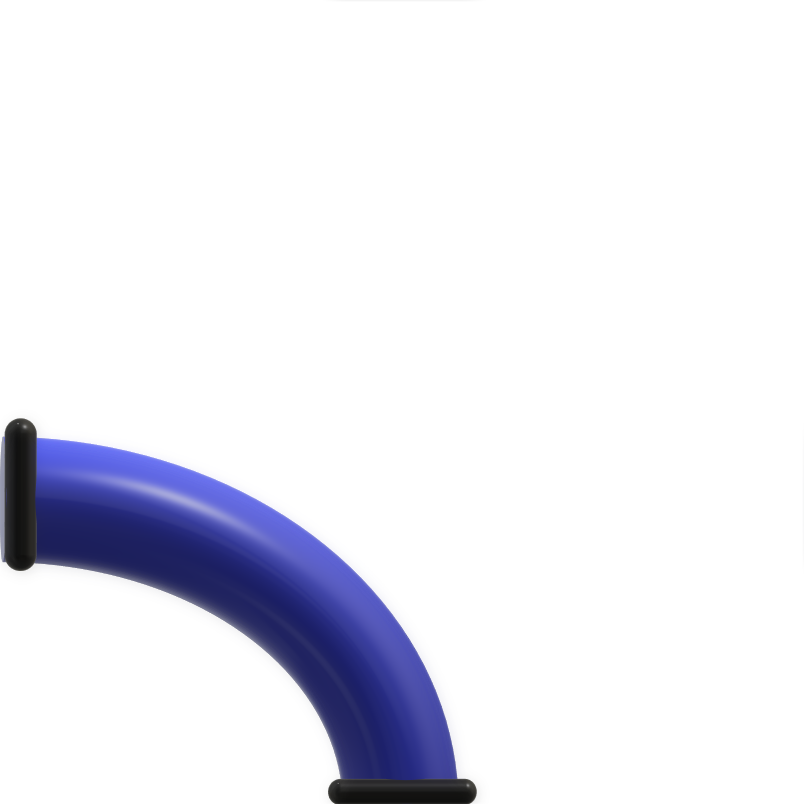
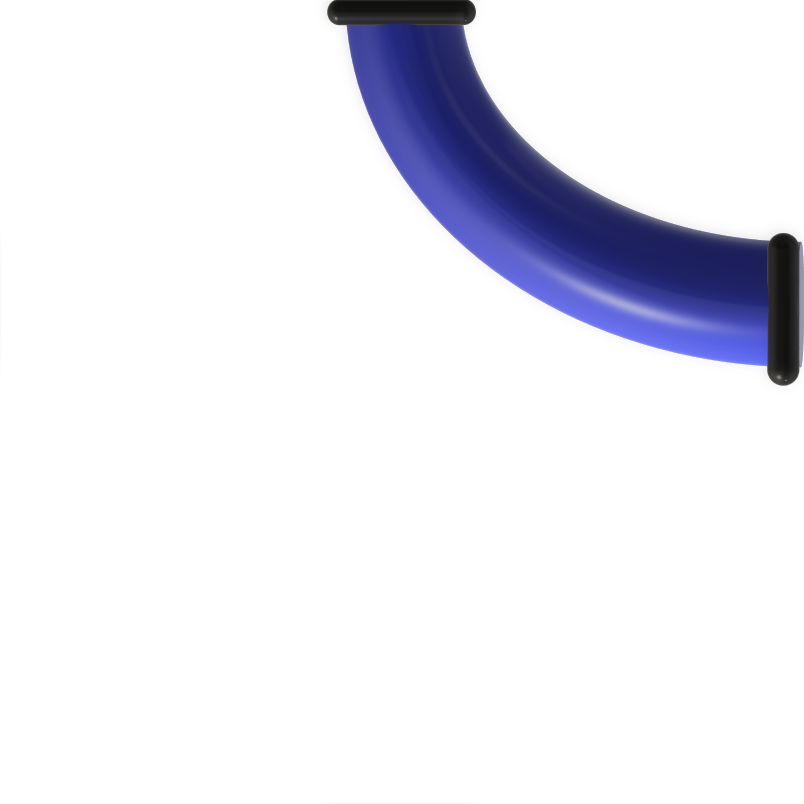
Get solution from server implementation + animations

Changed region(s): [[0.0, 0.4975, 0.5908, 1.0], [0.4042, 0.0, 1.0, 0.4975]]

diff --git a/src/client_desktop/model/PipeGameModel.java b/src/client_desktop/model/PipeGameModel.java
@@ -1,5 +1,6 @@
 package client_desktop.model;
 
+import javafx.application.Platform;
 import javafx.beans.property.*;
 import javafx.collections.FXCollections;
 
@@ -12,6 +13,8 @@ import java.util.Timer;
 import java.util.TimerTask;
 
 public class PipeGameModel implements GameModel {
+
+    public enum availableMoves {down, left, right, start, up}
 
     public BooleanProperty isGoalState;
     public ListProperty<Point> passedPipes;
@@ -31,6 +34,13 @@ public class PipeGameModel implements GameModel {
             timePassed.set(timePassed.get() + 1);
         }
     };
+    public TimerTask getNewTimerTask() {
+        return new TimerTask() {
+            public void run(){
+                Platform.runLater(()-> timePassed.set(timePassed.get() + 1));
+            }
+        };
+    }
 
     public PipeGameModel() {
         this.pipeGameBoard = new SimpleListProperty<>(FXCollections.observableArrayList(new ArrayList<>()));
@@ -48,11 +58,22 @@ public class PipeGameModel implements GameModel {
             if (startPosition != null) {
                 isGoalState.set(false);
                 passedPipes.clear();
-                isGoalState.set(isGoalStateCheck(startPosition, goalPosition));
+                isGoalStatePossible(startPosition.x, startPosition.y, availableMoves.start);
             }
         });
 
         this.isGoalState = new SimpleBooleanProperty();
+        this.isGoalState.addListener((observableValue, s, t1) -> {
+            if (true == isGoalState.get()) {
+                this.timer.cancel();
+                this.timer = null;
+            } else {
+                if (null == this.timer) {
+                    this.timer = new Timer();
+                    this.timer.scheduleAtFixedRate(getNewTimerTask(), 1000, 1000);
+                }
+            }
+        });
         this.passedPipes = new SimpleListProperty<>(FXCollections.observableArrayList(new LinkedHashSet<Point>()));
         this.stepsNumber = new SimpleIntegerProperty(0);
         this.timePassed = new SimpleIntegerProperty(0);
@@ -80,6 +101,90 @@ public class PipeGameModel implements GameModel {
                 (getBottom(current) != cameFrom && isBottomPossible(current) && isGoalFound(getBottom(current), current, goal)) ||
                 (getRight(current) != cameFrom && isRightPossible(current) && isGoalFound(getRight(current), current, goal))  ||
                 (getLeft(current) != cameFrom && isLeftPossible(current) && isGoalFound(getLeft(current), current, goal)));
+    }
+
+    private boolean isGoalStatePossible(int column, int row, availableMoves from) {
+        //check bounds
+        if (column < 0 || column >= pipeGameBoard.get(0).length)
+            return false;
+        if (row < 0 || row >= pipeGameBoard.size())
+            return false;
+        // start
+        if (from == availableMoves.start) {
+            return (isGoalStatePossible(column + 1, row, availableMoves.left) ||
+                    isGoalStatePossible(column - 1, row, availableMoves.right) ||
+                    isGoalStatePossible(column, row + 1, availableMoves.up) ||
+                    isGoalStatePossible(column, row - 1, availableMoves.down));
+        }
+
+        switch (pipeGameBoard.get(row)[column]) {
+            case '-':
+                if (from == availableMoves.left) {
+                    passedPipes.add(new Point(column, row));
+                    return isGoalStatePossible(column + 1, row, availableMoves.left);
+                } else if (from == availableMoves.right) {
+                    passedPipes.add(new Point(column, row));
+                    return isGoalStatePossible(column - 1, row, availableMoves.right);
+                } else {
+                    return false;
+                }
+            case 'g':
+                passedPipes.add(new Point(column, row));
+                isGoalState.set(true);
+                return true;
+            case 'F':
+                if (from == availableMoves.right) {
+                    passedPipes.add(new Point(column, row));
+                    return isGoalStatePossible(column, row + 1, availableMoves.up);
+                } else if (from == availableMoves.down) {
+                    passedPipes.add(new Point(column, row));
+                    return isGoalStatePossible(column + 1, row, availableMoves.left);
+                } else {
+                    return false;
+                }
+            case '|':
+                if (from == availableMoves.up) {
+                    passedPipes.add(new Point(column, row));
+                    return isGoalStatePossible(column, row + 1, availableMoves.up);
+                } else if (from == availableMoves.down) {
+                    passedPipes.add(new Point(column, row));
+                    return isGoalStatePossible(column, row - 1, availableMoves.down);
+                } else {
+                    return false;
+                }
+            case 'L':
+                if (from == availableMoves.up) {
+                    passedPipes.add(new Point(column, row));
+                    return isGoalStatePossible(column + 1, row, availableMoves.left);
+                } else if (from == availableMoves.right) {
+                    passedPipes.add(new Point(column, row));
+                    return isGoalStatePossible(column, row - 1, availableMoves.down);
+                } else {
+                    return false;
+                }
+
+            case 'J':
+                if (from == availableMoves.up) {
+                    passedPipes.add(new Point(column, row));
+                    return isGoalStatePossible(column - 1, row, availableMoves.right);
+                } else if (from == availableMoves.left) {
+                    passedPipes.add(new Point(column, row));
+                    return isGoalStatePossible(column, row - 1, availableMoves.down);
+                } else {
+                    return false;
+                }
+            case '7':
+                if (from == availableMoves.left) {
+                    passedPipes.add(new Point(column, row));
+                    return isGoalStatePossible(column, row + 1, availableMoves.up);
+                } else if (from == availableMoves.down) {
+                    passedPipes.add(new Point(column, row));
+                    return isGoalStatePossible(column - 1, row, availableMoves.right);
+                } else {
+                    return false;
+                }
+        }
+        return false;
     }
 
     public boolean isTopPossible(Point cell) {
@@ -303,10 +408,10 @@ public class PipeGameModel implements GameModel {
 
     public void initBoard() {
         char[][] level = {
-                {'s','F',' ','-','L'},
-                {' ','J','J','-','L'},
-                {' ','F','|','-','L'},
-                {' ','L','L','-','g'},
+                {'s','-','7','-','L'},
+                {'F','J','|','-','L'},
+                {'F','F','|','-','L'},
+                {'F','L','L','-','g'},
         };
 
         setCleanBoard(level);
@@ -362,11 +467,40 @@ public class PipeGameModel implements GameModel {
     public void saveGame(File fileName) {
     }
 
-    public void connectServer(String serverIP, String serverPort) {
-
+    public void connectServer(String serverIP, String serverPort) throws IOException {
+        this.serverSocket = new Socket(serverIP, Integer.parseInt(serverPort));
+        System.out.println("Connected to server");
     }
 
     public void solve() throws IOException, InterruptedException {
+        // verify the connection.
+        if (this.serverSocket != null) {
+            BufferedReader inFromServer = new BufferedReader(new InputStreamReader(this.serverSocket.getInputStream()));
+            PrintWriter outToServer = new PrintWriter(this.serverSocket.getOutputStream());
+
+            for (char[] line : this.pipeGameBoard.get()) {
+                // send board to the server.
+                outToServer.println(line);
+                outToServer.flush();
+            }
+            outToServer.println("done");
+            outToServer.flush();
+
+            String line;
+            // receive the solution.
+            while (!(line = inFromServer.readLine()).equals("done")) {
+                // changePipe accordingly. (consider sleep)
+                String[] moves = line.split(",");
+                int y = Integer.parseInt(moves[0]);
+                int x = Integer.parseInt(moves[1]);
+                int move = Integer.parseInt(moves[2]);
+                // start counting from 1, to skip 0 moves
+                for (int i = 1; i <= move; i++) {
+                    Platform.runLater(()-> rotateCell(x, y));
+                    Thread.sleep(100);
+                }
+            }
+        }
     }
 
     public void exit() {

diff --git a/src/client_desktop/view/MainWindowController.java b/src/client_desktop/view/MainWindowController.java
@@ -15,8 +15,10 @@ import client_desktop.view.Messeges.NakedObjectDisplayer;
 import client_desktop.view.Messeges.ThemeConfiguration;
 import client_desktop.view.Messeges.ServerConfiguration;
 import client_desktop.viewModel.PipeGameViewModel;
+import javafx.application.Platform;
 import javafx.beans.property.*;
 import javafx.beans.value.ObservableValue;
+import javafx.concurrent.Task;
 import javafx.event.ActionEvent;
 import javafx.fxml.FXML;
 import javafx.fxml.Initializable;
@@ -212,7 +214,25 @@ public class MainWindowController implements Initializable {
         music.setCycleCount(INDEFINITE);
         music.play();
     }
-    public void solve(ActionEvent actionEvent) {
+    public void solve() {
+        Task<Void> task = new Task<Void>() {
+            @Override
+            protected Void call() throws Exception {
+                try {
+                    System.out.println("Trying to solve...");
+                    Platform.runLater(()->connectionStatus.setText("Server Status: Connecting to " + serverConfiguration.ServerIP + ":" + serverConfiguration.ServerPort));
+                    pipeGameViewModel.connectServer(serverConfiguration.ServerIP, serverConfiguration.ServerPort);
+                    pipeGameViewModel.solve();
+                    pipeGameViewModel.disconnectServer();
+                    Platform.runLater(()->connectionStatus.setText("Server Disconnected"));
+                } catch (IOException e) {
+                    Platform.runLater(()->connectionStatus.setText("Connection Error"));
+                    e.printStackTrace();
+                }
+                return null;
+            }
+        };
+        new Thread(task).start();
     }
 
     public void reset(ActionEvent actionEvent) {

diff --git a/src/client_desktop/view/PipeDisplayer.java b/src/client_desktop/view/PipeDisplayer.java
@@ -213,16 +213,16 @@ public class PipeDisplayer extends Canvas {
                     Image pipeImage;
                     switch (pipeData[column][row]) {
                         case 'F':
-                            pipeImage = pipe270DegreeImage;
-                            break;
-                        case 'L':
-                            pipeImage = pipe180DegreeImage;
-                            break;
-                        case 'J':
                             pipeImage = pipe90DegreeImage;
                             break;
-                        case '7':
+                        case 'L':
                             pipeImage = pipe0DegreeImage;
+                            break;
+                        case 'J':
+                            pipeImage = pipe270DegreeImage;
+                            break;
+                        case '7':
+                            pipeImage = pipe180DegreeImage;
                             break;
                         case '-':
                             pipeImage = pipeHorizontalImage;
